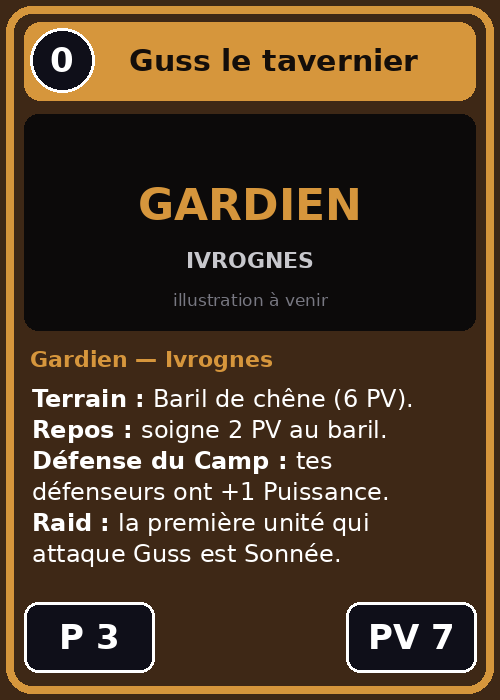
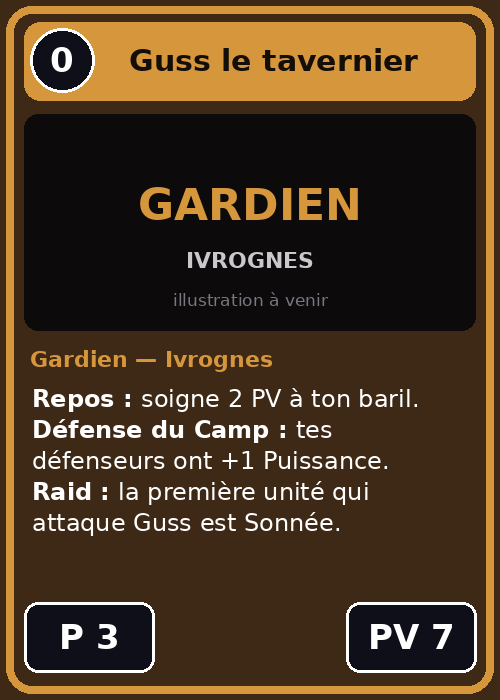
Terrains libres (test) : Terrain choisi dans le deck, n'importe quel Gardien de la faction
Claude-Session: https://claude.ai/code/session_01Ei1ETxKFF4cSM4RwXRQ4jQ

Changed region(s): [[0.06, 0.54, 0.84, 0.81]]

diff --git a/tools/generate.py b/tools/generate.py
@@ -272,9 +272,9 @@ TYPE_LABEL.update({"Terrain": "Terrain", "Menu": "Menu"})
 PALETTE.update({"Terrain": ((58, 50, 34), (205, 170, 95)), "Menu": ((40, 36, 52), (170, 150, 210))})
 CARDS = [c for c in CARDS if c["type"] != "Recettes"]   # les Livres sont fusionnés dans les bosquets
 CARDS += [
-    C("bosquet", "Bosquet ancien", "Terrain", 0, DRU, "", 0, 5, legal=False, token=True),
-    C("bosquet-poison", "Bosquet empoisonné", "Terrain", 0, DRU, "", 0, 5, legal=False, token=True),
-    C("bosquet-ombre", "Bosquet d'ombre", "Terrain", 0, DRU, "", 0, 3, legal=False, token=True),
+    C("bosquet", "Bosquet ancien", "Terrain", 0, DRU, "", 0, 5, legal=1),
+    C("bosquet-poison", "Bosquet empoisonné", "Terrain", 0, DRU, "", 0, 5, legal=1),
+    C("bosquet-ombre", "Bosquet d'ombre", "Terrain", 0, DRU, "", 0, 3, legal=1),
     C("transplantation", "Transplantation", "Sort", 2, DRU, ""),
 ]
 _NIV = ""
@@ -297,11 +297,11 @@ NEW = {
  "bosquet-ombre": _NIV + _FORET + "**Rapide :** ses recettes se jouent dans n'importe quel Duel.\n"
    "**1 Pain de route :** tes unités d'ici gagnent Rapide.\n**1 Infusion vive :** une unité, Rapide et +1 P.\n"
    "**2 Festin de l'ombre :** tes unités d'ici, Rapide et +1/+1.",
- "guss": "**Terrain :** Baril de chêne (6 PV).\n**Repos :** soigne 2 PV au baril.\n**Défense du Camp :** tes défenseurs ont +1 Puissance.\n**Raid :** la première unité qui attaque Guss est Sonnée.",
- "rosa": "**Terrain :** Baril explosif (4 PV).\n**Repos :** soigne 2 PV au baril.\n**Pinte :** 2 alcools à 1 PV pour une seule pinte.\n**Défense du Camp :** 1 dégât à chaque attaquant.",
- "cernun": "**Terrain :** Bosquet ancien (5 PV), recettes de buff.\n**Repos :** +1 Sève (Cueillette).\n**Récolte :** +1 Sève par monstre tué par tes unités.\n**Défense du Camp :** invoque 2 Pousses.",
- "belladone": "**Terrain :** Bosquet empoisonné (5 PV), recettes qui blessent.\n**Repos :** +1 Sève (Cueillette).\n**Défense du Camp :** la première unité qui attaque Belladone est Sonnée.",
- "sylve": "**Terrain :** Bosquet d'ombre (3 PV), recettes Rapides.\n**Repos :** +1 Sève (Cueillette).",
+ "guss": "**Repos :** soigne 2 PV à ton baril.\n**Défense du Camp :** tes défenseurs ont +1 Puissance.\n**Raid :** la première unité qui attaque Guss est Sonnée.",
+ "rosa": "**Repos :** soigne 2 PV à ton baril.\n**Pinte :** 2 alcools à 1 PV pour une seule pinte.\n**Défense du Camp :** 1 dégât à chaque attaquant.",
+ "cernun": "**Repos :** +1 Sève (Cueillette).\n**Récolte :** +1 Sève par monstre tué par tes unités.\n**Défense du Camp :** invoque 2 Pousses.",
+ "belladone": "**Repos :** +1 Sève (Cueillette).\n**Défense du Camp :** la première unité qui attaque Belladone est Sonnée.",
+ "sylve": "**Repos :** +1 Sève (Cueillette).\n**Nomade :** lever le camp ne fait pas perdre de niveau à ton bosquet.",
  "habitue": "**Dans la Taverne :** +1 PV.",
  "champion": "**Dans la Taverne :** +2 Puissance et ne peut pas être Sonné.",
  "cracheur": "**Arrivée, dans la Taverne :** 1 dégât à chaque ennemi de la salle.",
@@ -313,15 +313,15 @@ NEW = {
  "eveil-foret": "Invoque une Pousse dans chaque salle.\nTes unités gagnent +1/+1 ce tour. +2 Sève.\nToutes tes Expéditions comptent comme Forêt ce tour.\n**Signature :** 1 exemplaire max.",
  "transplantation": "Déplace ton bosquet dans une autre de tes Expéditions, sans perte de niveau.",
 }
-TOKS = {"guss": ["baril-chene"], "rosa": ["baril-explosif"], "cernun": ["bosquet", "pousse"],
-        "belladone": ["bosquet-poison"], "sylve": ["bosquet-ombre", "loup"]}
+TOKS = {"guss": [], "rosa": [], "cernun": ["pousse"], "belladone": [], "sylve": ["loup"]}
 for _c in CARDS:
     if _c["id"] in NEW:
         _c["text"] = NEW[_c["id"]]
     if _c["id"] in TOKS:
         _c["tokens"] = TOKS[_c["id"]]
-    if _c["type"] == "Baril":
+    if _c["type"] == "Baril":   # les barils deviennent des Terrains, à mettre dans le deck (1 par deck)
         _c["type"] = "Terrain"
+        _c["token"], _c["legal"] = False, 1
 
 
 

diff --git a/tools/format_v3.py b/tools/format_v3.py
@@ -13,10 +13,11 @@ S = G['sections']
 D = S['sectionsDict']
 
 # --- construction : 1 Gardien + 30 cartes, c'est tout ---
-g['deckBuilding']['formats'][0]['customCategories'] = ['Gardien']
+g['deckBuilding']['formats'][0]['customCategories'] = ['Gardien', 'Terrain']
 g['deckBuilding']['deckRulesets']['Proto']['categories'] = [
-    {'category': 'Gardien', 'min': 1, 'max': 1, 'ignoreTotalCount': True}]
-S['categoriesAlreadyOnBoard'] = ['Gardien->Gardien']
+    {'category': 'Gardien', 'min': 1, 'max': 1, 'ignoreTotalCount': True},
+    {'category': 'Terrain', 'min': 1, 'max': 1, 'ignoreTotalCount': True}]
+S['categoriesAlreadyOnBoard'] = ['Gardien->Gardien', 'Terrain->Gardien']
 
 # --- sections : plus de Réserve ; Terrain dans l'Expédition 1 (à déplacer), Menu près du Gardien ---
 D.pop('Reserve', None)
@@ -71,7 +72,7 @@ h = [l for l in h if not l.startswith('Réserve (8 cartes)') and not l.startswit
 h = [l.replace('Expéditions 1-4, Gardien, Réserve ; Énergie et Camp', 'Expéditions 1-4, Gardien ; Énergie et Camp')
       .replace('chacun joue une carte Rapide ou instantanée ou passe', 'chacun joue une carte Rapide, ou un bonus de son Terrain si le Duel a lieu dans sa salle, ou passe').replace('Jetons Dégât et Baril à poser sur les cartes.', 'Jetons (panneau des jetons, à glisser sur les cartes) : Dégât, Sève, Niveau 1-3, Sonné, Rapide, +1 Puissance, +1 PV, alcools, Piège.') for l in h]
 h += [
-    "Gardien : clic droit dessus pour créer son Terrain (baril, bosquet). Il arrive dans l'Expédition 1 : glisse-le dans l'Expédition voulue au 1er Assaut. Le Terrain porte les bonus de la guilde (alcools, recettes) et leur prix.",
+    "Deck : 1 Gardien + 1 Terrain de la même faction (n'importe lequel) + 30 cartes. Le Terrain commence à côté du Gardien : glisse-le dans l'Expédition voulue à ton 1er Assaut. Il porte les bonus de la guilde (alcools, recettes) et leur prix.",
     "Bonus du Terrain : à ton Assaut, ou pendant n'importe quel Duel dans la salle de ton Terrain (même au tour adverse). Ils visent tes unités de cette salle. Pose un jeton d'effet pour t'en souvenir.",
     "Niveau : jeton Niv 1 à la pose. À ton Retrait, +1 s'il était déjà à sa place au début du tour (3 max). Niv. 1 bonus de lieu, niv. 2 ressource renforcée, niv. 3 Fief (+1 trésor par monstre tué ici). Lever le camp (Stratagème) : Expédition voisine, -1 niveau.",
     "Le Terrain a des PV, ne frappe pas, ne bloque pas les raids. Une unité adverse qui combat dans sa salle peut l'attaquer. Détruit par l'adversaire : +1 trésor pour lui (pillage) ; il revient au niveau 1 à ton Assaut suivant.",
@@ -88,7 +89,8 @@ for d in dk:
     L = d['deckList']
     for k in ('Alcool', 'Ingredient', 'Relique'):
         L.pop(k, None)
-    L['categoriesOrder'] = [c for c in L['categoriesOrder'] if c in ('Gardien', 'Unite', 'Sort')]
+    L['Terrain'] = [{'id': 'baril-chene' if d['id'] == 'precon-ivrognes' else 'bosquet', 'count': 1}]
+    L['categoriesOrder'] = ['Gardien', 'Terrain', 'Unite', 'Sort']
     if d['id'] == 'precon-druides':
         sorts = [e for e in L['Sort'] if e['id'] != 'transplantation']
         for e in sorts:
